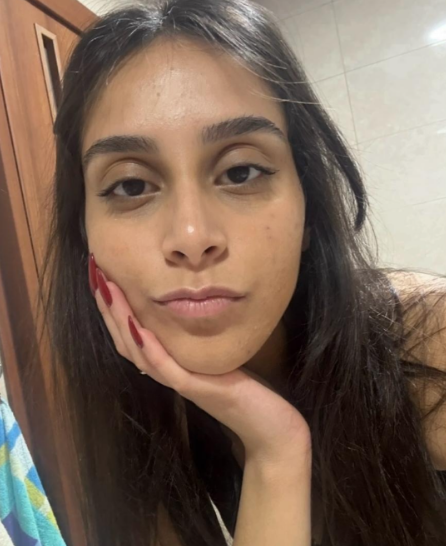
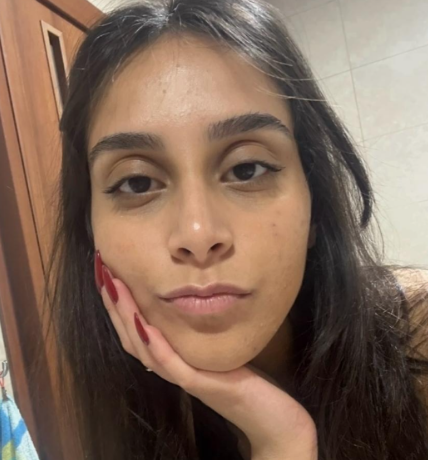
add basic style

diff --git a/style.css b/style.css
@@ -1,0 +1,205 @@
+:root {
+  --bg-page: #f0f2f5;
+  --bg-card: #ffffff;
+  --text-primary: #1e293b;
+  --text-secondary: #64748b;
+  --accent-color: #3b82f6;
+  --accent-hover: #1d4ed8;
+  --border-color: #e2e8f0;
+  --card-shadow: 0 10px 25px -5px rgba(0, 0, 0, 0.08), 0 8px 10px -6px rgba(0, 0, 0, 0.04);
+}
+
+* {
+  box-sizing: border-box;
+  margin: 0;
+  padding: 0;
+}
+
+body {
+  font-family: system-ui, -apple-system, BlinkMacSystemFont, "Segoe UI", Roboto, sans-serif;
+  background-color: var(--bg-page);
+  color: var(--text-primary);
+  line-height: 1.6;
+  min-height: 100vh;
+  display: flex;
+  justify-content: center;
+  align-items: center;
+  padding: 20px;
+  transition: background-color 0.3s ease, color 0.3s ease;
+}
+
+.theme-toggle-input {
+  display: none;
+}
+
+.theme-toggle-input:checked ~ .page-wrapper {
+  --bg-page: #0f172a;
+  --bg-card: #1e293b;
+  --text-primary: #f8fafc;
+  --text-secondary: #94a3b8;
+  --accent-color: #60a5fa;
+  --accent-hover: #93c5fd;
+  --border-color: #334155;
+  --card-shadow: 0 10px 25px -5px rgba(0, 0, 0, 0.5);
+}
+
+.theme-bar {
+  display: flex;
+  justify-content: flex-end;
+  margin-bottom: 12px;
+}
+
+.theme-btn {
+  background-color: var(--bg-card);
+  border: 1px solid var(--border-color);
+  padding: 8px 14px;
+  border-radius: 20px;
+  cursor: pointer;
+  font-size: 1.1rem;
+  box-shadow: var(--card-shadow);
+  transition: transform 0.2s ease, background-color 0.3s ease;
+  user-select: none;
+}
+
+.theme-btn:hover {
+  transform: scale(1.05);
+}
+
+.theme-toggle-input:not(:checked) ~ .page-wrapper .sun-icon {
+  display: none;
+}
+
+.theme-toggle-input:checked ~ .page-wrapper .moon-icon {
+  display: none;
+}
+
+.page-wrapper {
+  width: 100%;
+  max-width: 440px;
+}
+
+.card {
+  background-color: var(--bg-card);
+  border: 1px solid var(--border-color);
+  border-radius: 20px;
+  padding: 32px;
+  box-shadow: var(--card-shadow);
+  transition: background-color 0.3s ease, border-color 0.3s ease;
+  display: flex;
+  flex-direction: column;
+  gap: 24px;
+}
+
+.card-hero {
+  text-align: center;
+}
+
+.avatar-container {
+  width: 110px;
+  height: 110px;
+  margin: 0 auto 16px auto;
+  border-radius: 50%;
+  overflow: hidden;
+  border: 3px solid var(--accent-color);
+}
+
+.avatar {
+  width: 100%;
+  height: 100%;
+  object-fit: cover;
+  display: block;
+}
+
+.name {
+  font-size: 1.5rem;
+  font-weight: 700;
+  margin-bottom: 4px;
+  color: var(--text-primary);
+}
+
+.role {
+  font-size: 0.95rem;
+  color: var(--text-secondary);
+  font-weight: 500;
+}
+
+.section-title {
+  font-size: 1rem;
+  text-transform: uppercase;
+  letter-spacing: 0.05em;
+  color: var(--accent-color);
+  margin-bottom: 8px;
+}
+
+.bio {
+  font-size: 0.95rem;
+  color: var(--text-secondary);
+}
+
+.links-grid {
+  display: flex;
+  gap: 12px;
+}
+
+.btn {
+  flex: 1;
+  text-align: center;
+  text-decoration: none;
+  background-color: var(--accent-color);
+  color: #ffffff;
+  padding: 10px 16px;
+  border-radius: 10px;
+  font-size: 0.95rem;
+  font-weight: 600;
+  transition: background-color 0.2s ease, transform 0.1s ease;
+}
+
+.btn:hover {
+  background-color: var(--accent-hover);
+  transform: translateY(-2px);
+}
+
+.contact-list {
+  list-style: none;
+  display: flex;
+  flex-direction: column;
+  gap: 8px;
+}
+
+.contact-item {
+  display: flex;
+  align-items: center;
+  gap: 10px;
+  font-size: 0.9rem;
+}
+
+.contact-item a {
+  color: var(--text-secondary);
+  text-decoration: none;
+  transition: color 0.2s ease;
+}
+
+.contact-item a:hover {
+  color: var(--accent-color);
+  text-decoration: underline;
+}
+
+@media (max-width: 480px) {
+  body {
+    padding: 12px;
+  }
+
+  .card {
+    padding: 24px 20px;
+    gap: 20px;
+  }
+
+  .avatar-container {
+    width: 90px;
+    height: 90px;
+  }
+
+  .name {
+    font-size: 1.35rem;
+  }
+}

diff --git a/index.html b/index.html
@@ -56,11 +56,11 @@
         <ul class="contact-list">
           <li class="contact-item">
             <span class="icon">✉</span>
-            <a href="mailto:maya.example@email.com">maya.example@email.com</a>
+            <a href="mailto:mayadevops@email.com">mayadevops@email.com</a>
           </li>
           <li class="contact-item">
             <span class="icon">📞</span>
-            <a href="tel:+972500000000">+972 50-000-0000</a>
+            <a href="tel:+972524500353">+972 52-450-0353</a>
           </li>
         </ul>
       </footer>
